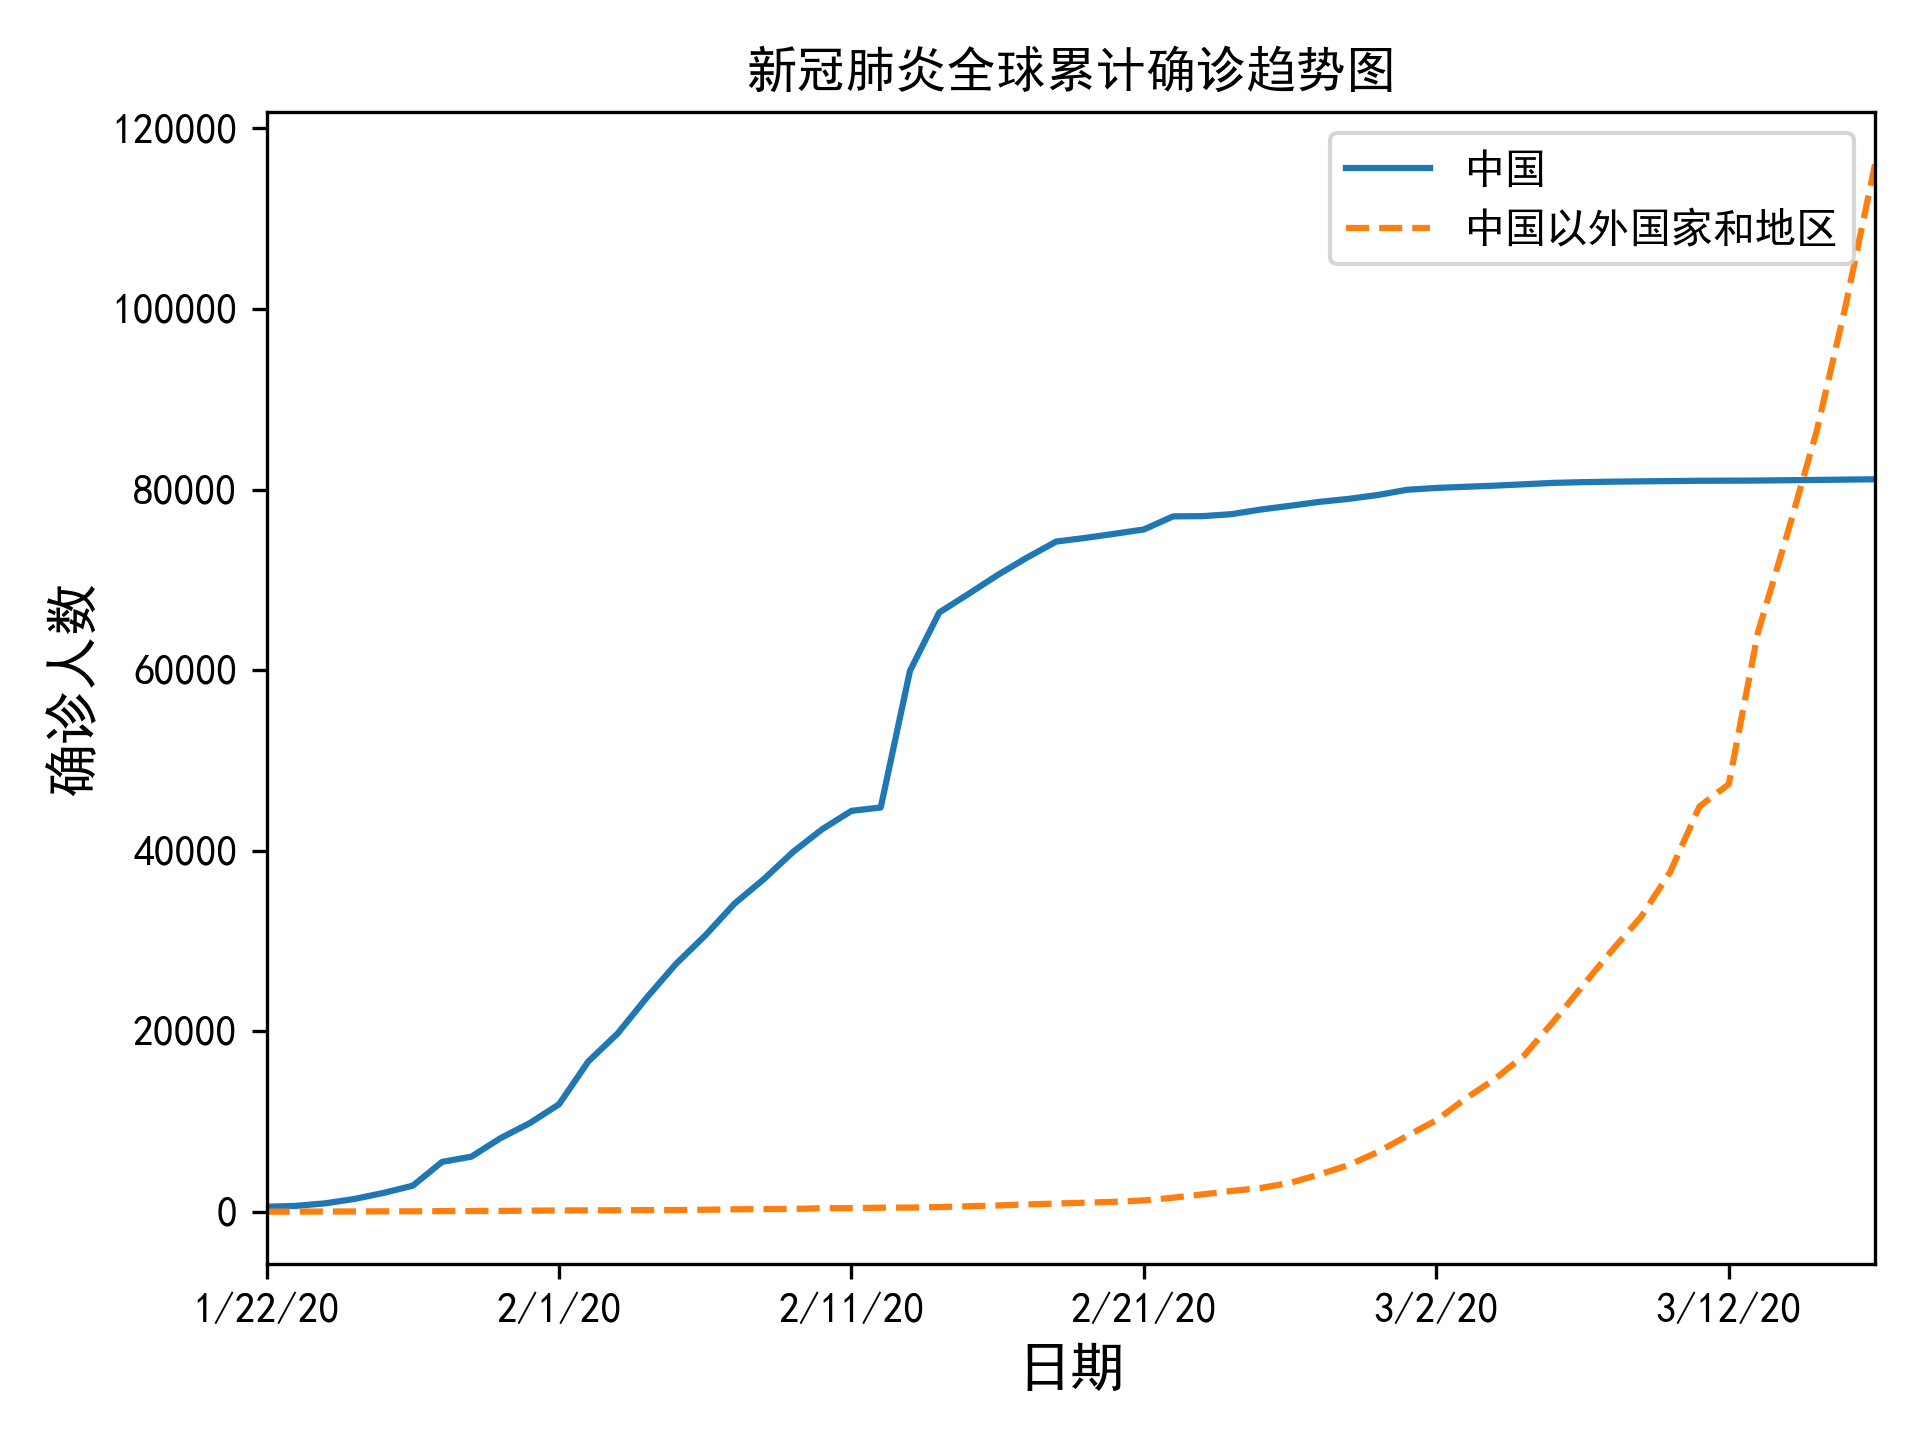
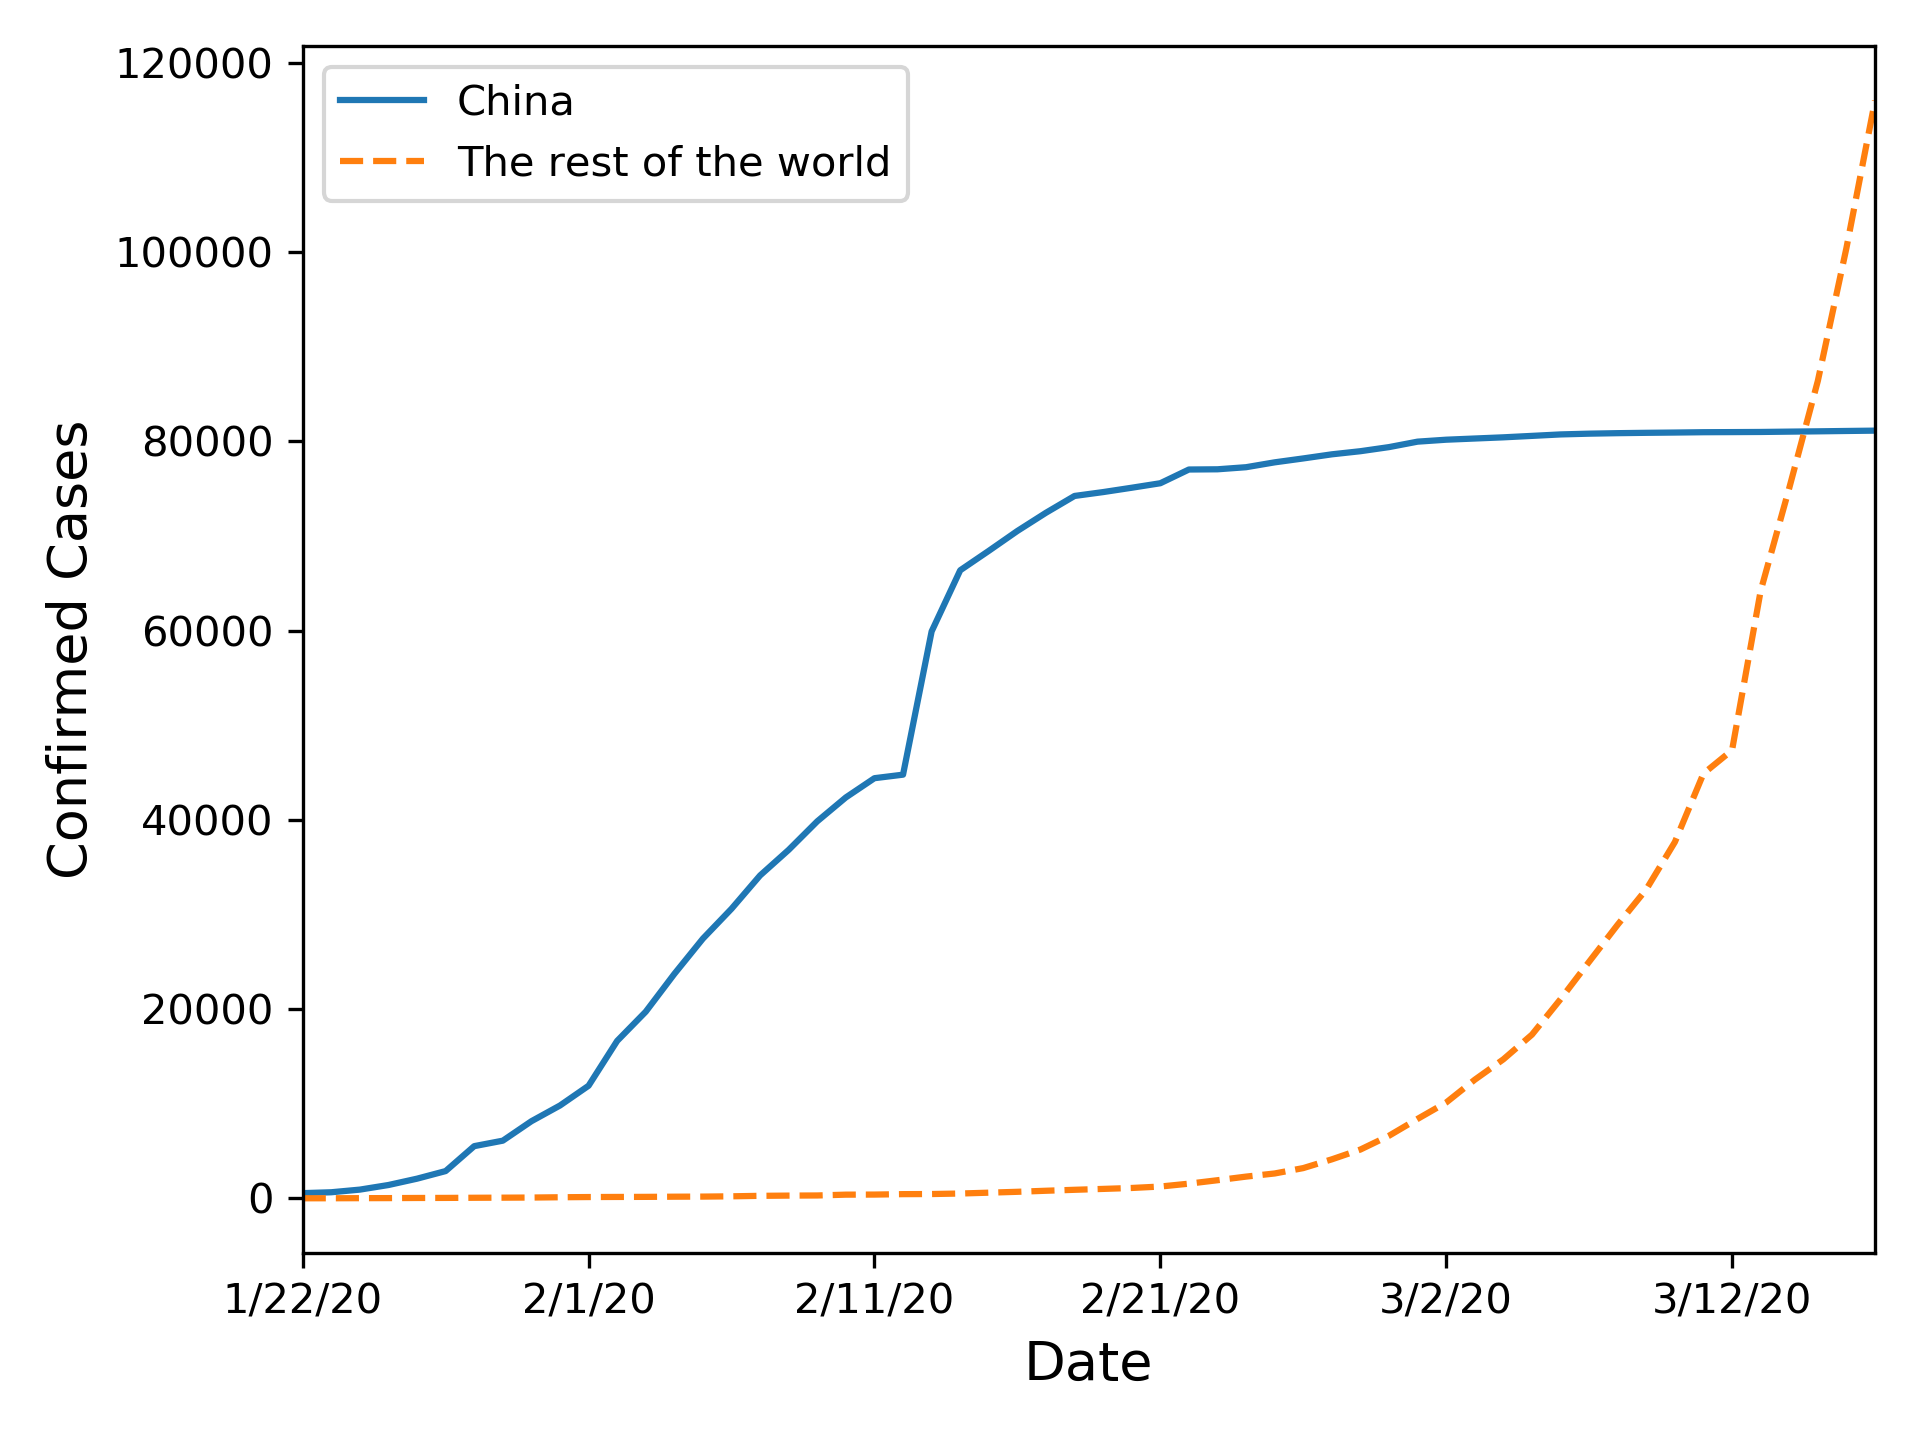
Chinese - English

diff --git a/statistic_outside_China.py b/statistic_outside_China.py
@@ -1,8 +1,6 @@
 import pandas as pd
 from matplotlib import pyplot as plt
 
-plt.rcParams['font.sans-serif'] = ['SimHei']  # 用来正常显示中文标签
-
 confirmed_data = pd.read_csv('data/time_series_19-covid-Confirmed.csv')
 confirmed_data.replace('Taiwan*', 'China', inplace=True)
 columns = confirmed_data.columns
@@ -19,28 +17,27 @@ confirmed_data_cn = confirmed_data.loc['China', :]
 confirmed_data_rest = confirmed_data.drop(['China'])
 confirmed_data_rest = confirmed_data_rest.sum()
 confirmed_data_b = pd.concat([confirmed_data_cn, confirmed_data_rest], axis=1)
-confirmed_data_b.columns = ['中国', '中国以外国家和地区']
+confirmed_data_b.columns = ['China', 'The rest of the world']
 
 confirmed_data_b.plot(style=['-', '--'])
-plt.xlabel('日期', fontsize=13)
-plt.ylabel('确诊人数', fontsize=13)
-plt.title('新冠肺炎全球累计确诊趋势图')
+plt.xlabel('Date', fontsize=13)
+plt.ylabel('Confirmed Cases', fontsize=13)
+plt.legend(loc='upper left')
 plt.tight_layout()
 plt.savefig('png/Confirmed cases.png', dpi=300)
 plt.show()
 
 plot_countries = ['Singapore', 'Italy', 'Japan', 'Korea, South']
-plot_country_names = ['新加坡', '意大利', '日本', '韩国']
 plot_styles = ['-', '--', '-.', '.']
 aggre_data = []
 for plot_country in plot_countries:
     s_data = confirmed_data.loc[plot_country, :]
     aggre_data.append(s_data)
 confirmed_data_m = pd.concat(aggre_data, axis=1)
-confirmed_data_m.columns = plot_country_names
+confirmed_data_m.columns = plot_countries
 confirmed_data_m.iloc[25:, :].plot(style=plot_styles)
-plt.xlabel('日期', fontsize=13)
-plt.ylabel('确诊人数', fontsize=13)
+plt.xlabel('Date', fontsize=13)
+plt.ylabel('Confirmed Cases', fontsize=13)
 plt.tight_layout()
 plt.savefig('png/Confirmed Cases of Selected Countries.png', dpi=300)
 plt.show()
